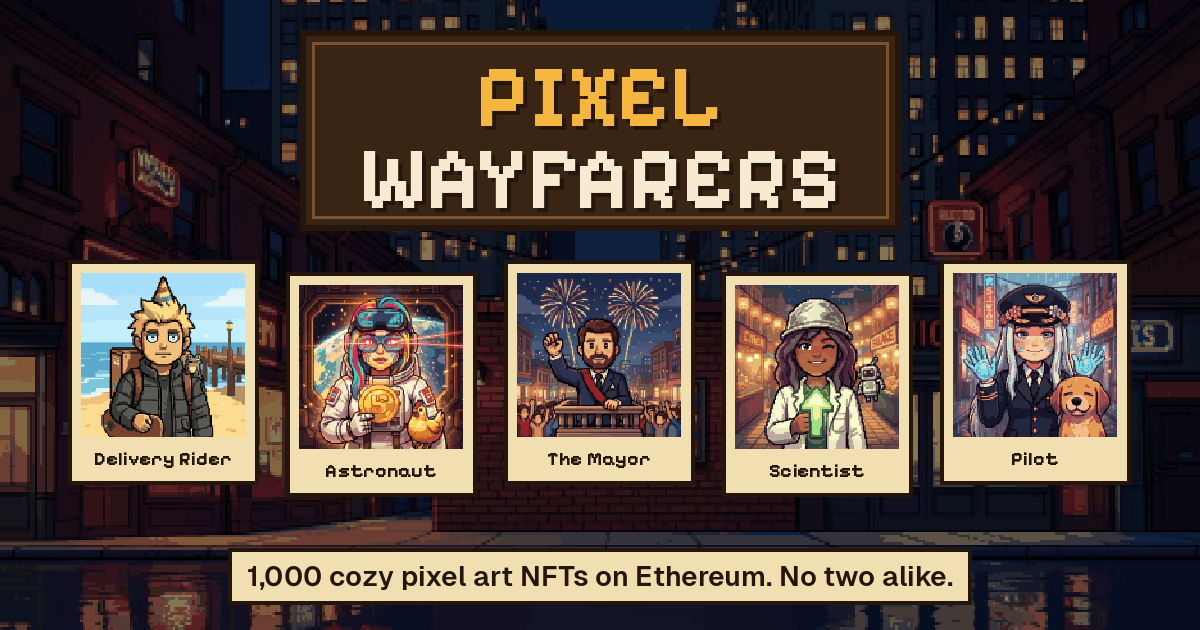
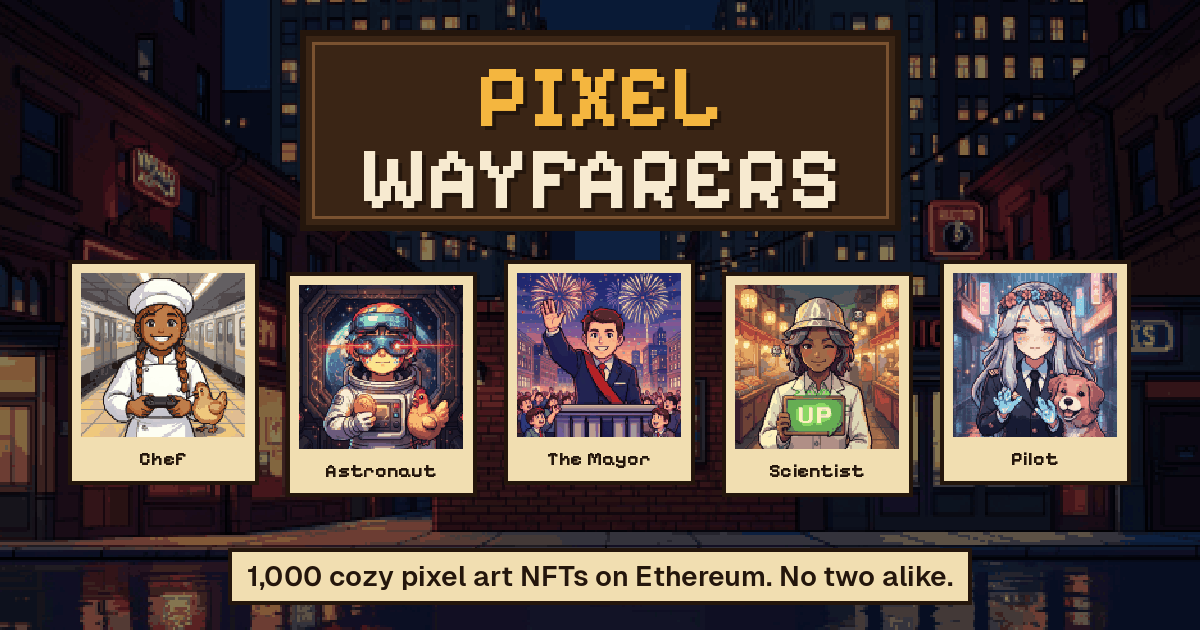
Restore original cozy prompt on klein 4B; flagged-output seed retries + 9B fallback; city-only X header; new examples

diff --git a/worker/src/workflow.ts b/worker/src/workflow.ts
@@ -3,6 +3,10 @@ import { NonRetryableError } from "cloudflare:workflows";
 import { generateImage, loadManifest, randomSeed } from "./ai";
 import { encodeRgbPng, OUT_SCALE, pixelGrid, upscaleNearest } from "./pixel";
 
+const FLAGGED_SEED_TRIES = 5;
+/** used only for tokens whose every seed gets flagged on the main model (a filter false positive) */
+const FALLBACK_MODEL = "@cf/black-forest-labs/flux-2-klein-9b";
+
 export interface GenerateParams {
 	id: number;
 	/** regenerate even if a final image exists, with a fresh seed */
@@ -32,15 +36,28 @@ export class GenerateToken extends WorkflowEntrypoint<Env, GenerateParams> {
 		});
 		if (!plan) return { id, skipped: true };
 
-		await step.do(
+		const usedSeed = await step.do(
 			"generate",
 			{ retries: { limit: 8, delay: "15 seconds", backoff: "exponential" }, timeout: "5 minutes" },
 			async () => {
 				// no style reference image: in testing it leaked its clothing/props into every token;
-				// the shared style prompt + pixelation keep the collection consistent on their own
-				const bytes = await generateImage(this.env, plan.model, plan.prompt, plan.params, plan.seed);
-				await this.env.ART.put(`raw/${id}`, bytes, { customMetadata: { seed: String(plan.seed) } });
-				return bytes.length;
+				// the shared style prompt + pixelation keep the collection consistent on their own.
+				// The safety filter sometimes flags a harmless render (3030); a new seed usually passes,
+				// while retrying the same seed never would.
+				const attempts = [
+					...Array.from({ length: FLAGGED_SEED_TRIES }, (_, n) => ({ model: plan.model, seed: plan.seed + n })),
+					...(plan.model === FALLBACK_MODEL ? [] : [{ model: FALLBACK_MODEL, seed: plan.seed }]),
+				];
+				for (const { model, seed } of attempts) {
+					try {
+						const bytes = await generateImage(this.env, model, plan.prompt, plan.params, seed);
+						await this.env.ART.put(`raw/${id}`, bytes, { customMetadata: { seed: String(seed), model } });
+						return seed;
+					} catch (err) {
+						if (!String(err).includes("3030")) throw err;
+					}
+				}
+				throw new NonRetryableError(`token ${id}: every attempt flagged by the safety filter; edit its traits and reroll`);
 			},
 		);
 
@@ -51,11 +68,12 @@ export class GenerateToken extends WorkflowEntrypoint<Env, GenerateParams> {
 			const png = encodeRgbPng(upscaleNearest(grid, OUT_SCALE));
 			await this.env.ART.put(`final/${id}.png`, png, {
 				httpMetadata: { contentType: "image/png" },
-				customMetadata: { seed: String(plan.seed), tier: plan.tier },
+				// model shows up in /admin/img metadata so fallback renders can be reviewed
+				customMetadata: { seed: String(usedSeed), tier: plan.tier, model: raw.customMetadata?.model ?? plan.model },
 			});
 			return png.length;
 		});
 
-		return { id, seed: plan.seed };
+		return { id, seed: usedSeed };
 	}
 }

diff --git a/worker/public/index.html b/worker/public/index.html
@@ -77,7 +77,7 @@
         <h1 class="logo"><span>Pixel</span><span>Wayfarers</span></h1>
       </div>
       <div class="posters" aria-label="Wanted posters of Pixel Wayfarers">
-        <figure class="poster p1"><img src="/art/sample-01.png" alt="A delivery rider wayfarer on the beach" width="512" height="512"><figcaption>Delivery Rider</figcaption></figure>
+        <figure class="poster p1"><img src="/art/sample-01.png" alt="A chef wayfarer with a chicken on a subway platform" width="512" height="512"><figcaption>Chef</figcaption></figure>
         <figure class="poster p2"><img src="/art/sample-02.png" alt="An epic astronaut wayfarer" width="512" height="512"><figcaption>Astronaut</figcaption></figure>
         <figure class="poster p3"><img src="/art/poster-legendary.png" alt="The Mayor, a legendary wayfarer" width="512" height="512"><figcaption>The Mayor</figcaption></figure>
         <figure class="poster p4"><img src="/art/sample-03.png" alt="A scientist wayfarer holding an UP sign" width="512" height="512"><figcaption>Scientist</figcaption></figure>

diff --git a/README.md b/README.md
@@ -8,19 +8,19 @@ the bigger the palette. Minted at ~$10 each on Ethereum, traded on OpenSea.
 
 | Tier      | Count | Model                 | Palette | Art                                           |
 |-----------|------:|-----------------------|--------:|-----------------------------------------------|
-| Common    |   600 | flux-2-klein-9b       |      24 | clean, daylight                               |
-| Uncommon  |   250 | flux-2-klein-9b       |      32 | detailed, golden hour                         |
-| Rare      |   100 | flux-2-klein-9b       |      40 | rim light, sparkles, rare-only traits         |
-| Epic      |    40 | flux-2-klein-9b       |      56 | glowing aura, epic-only traits                |
-| Legendary |    10 | flux-2-klein-9b       |      64 | hand-written 1/1 scenes (`legendaries.yaml`)  |
+| Common    |   600 | flux-2-klein-4b       |      24 | clean, daylight                               |
+| Uncommon  |   250 | flux-2-klein-4b       |      32 | detailed, golden hour                         |
+| Rare      |   100 | flux-2-klein-4b       |      40 | rim light, sparkles, rare-only traits         |
+| Epic      |    40 | flux-2-klein-4b       |      56 | glowing aura, epic-only traits                |
+| Legendary |    10 | flux-2-klein-4b       |      64 | hand-written 1/1 scenes (`legendaries.yaml`)  |
 
 Tokens can only get traits of their tier or below, and prefer their own tier
 (`same_tier_boost`). Edit everything in `config/traits.yaml`.
 
 ## Cost (Workers AI)
 
-All tiers use FLUX.2 klein 9B (~$0.017 per image) with a cozy farming-game portrait prompt. The whole collection with
-rerolls is about $20-25 of AI. Tested against FLUX.2 [pro]: 9B matched the chunky cozy style better. Needs **Workers Paid ($5/mo)**: pixelation uses ~100ms CPU
+All tiers use FLUX.2 klein 4B (~$0.0012 per image) with the original cozy prompt (commit bb72102); tokens the safety filter flags 5 times fall back to klein 9B. The whole collection with
+rerolls is a few dollars of AI. Tested against 9B, pro and a game-named prompt: this look won. Needs **Workers Paid ($5/mo)**: pixelation uses ~100ms CPU
 per image, over the free plan's 10ms limit.
 
 ## Layout
